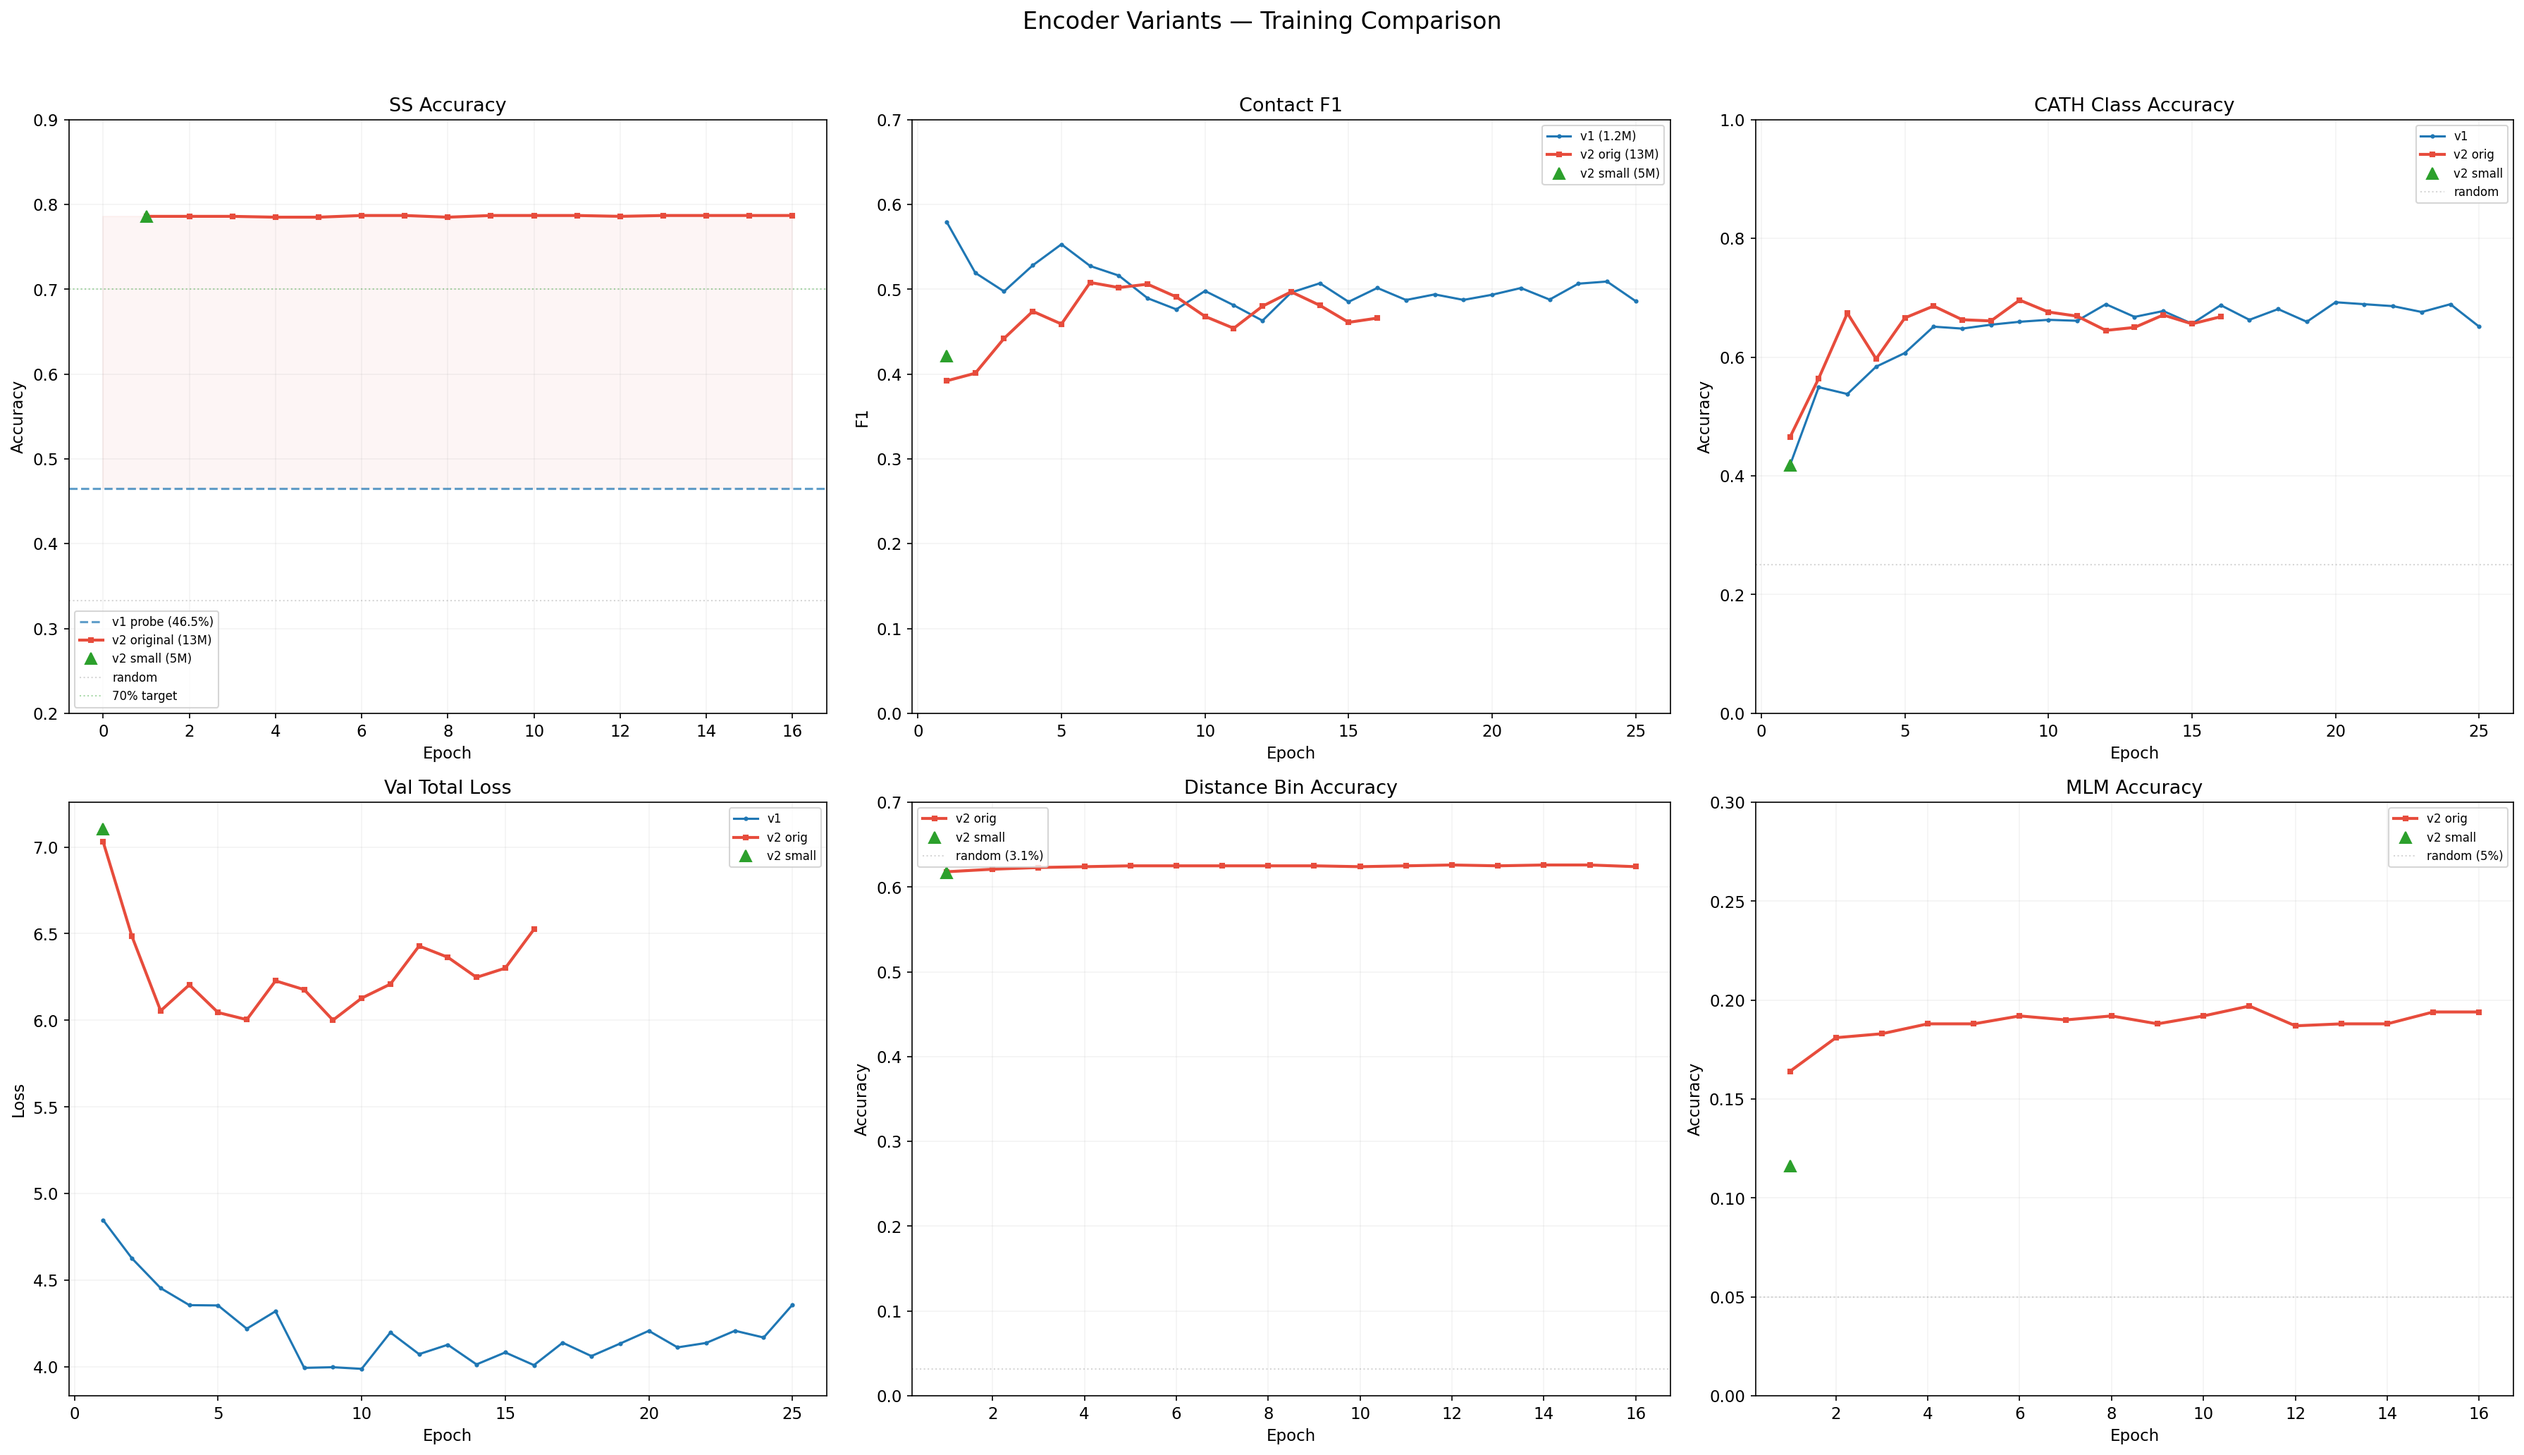
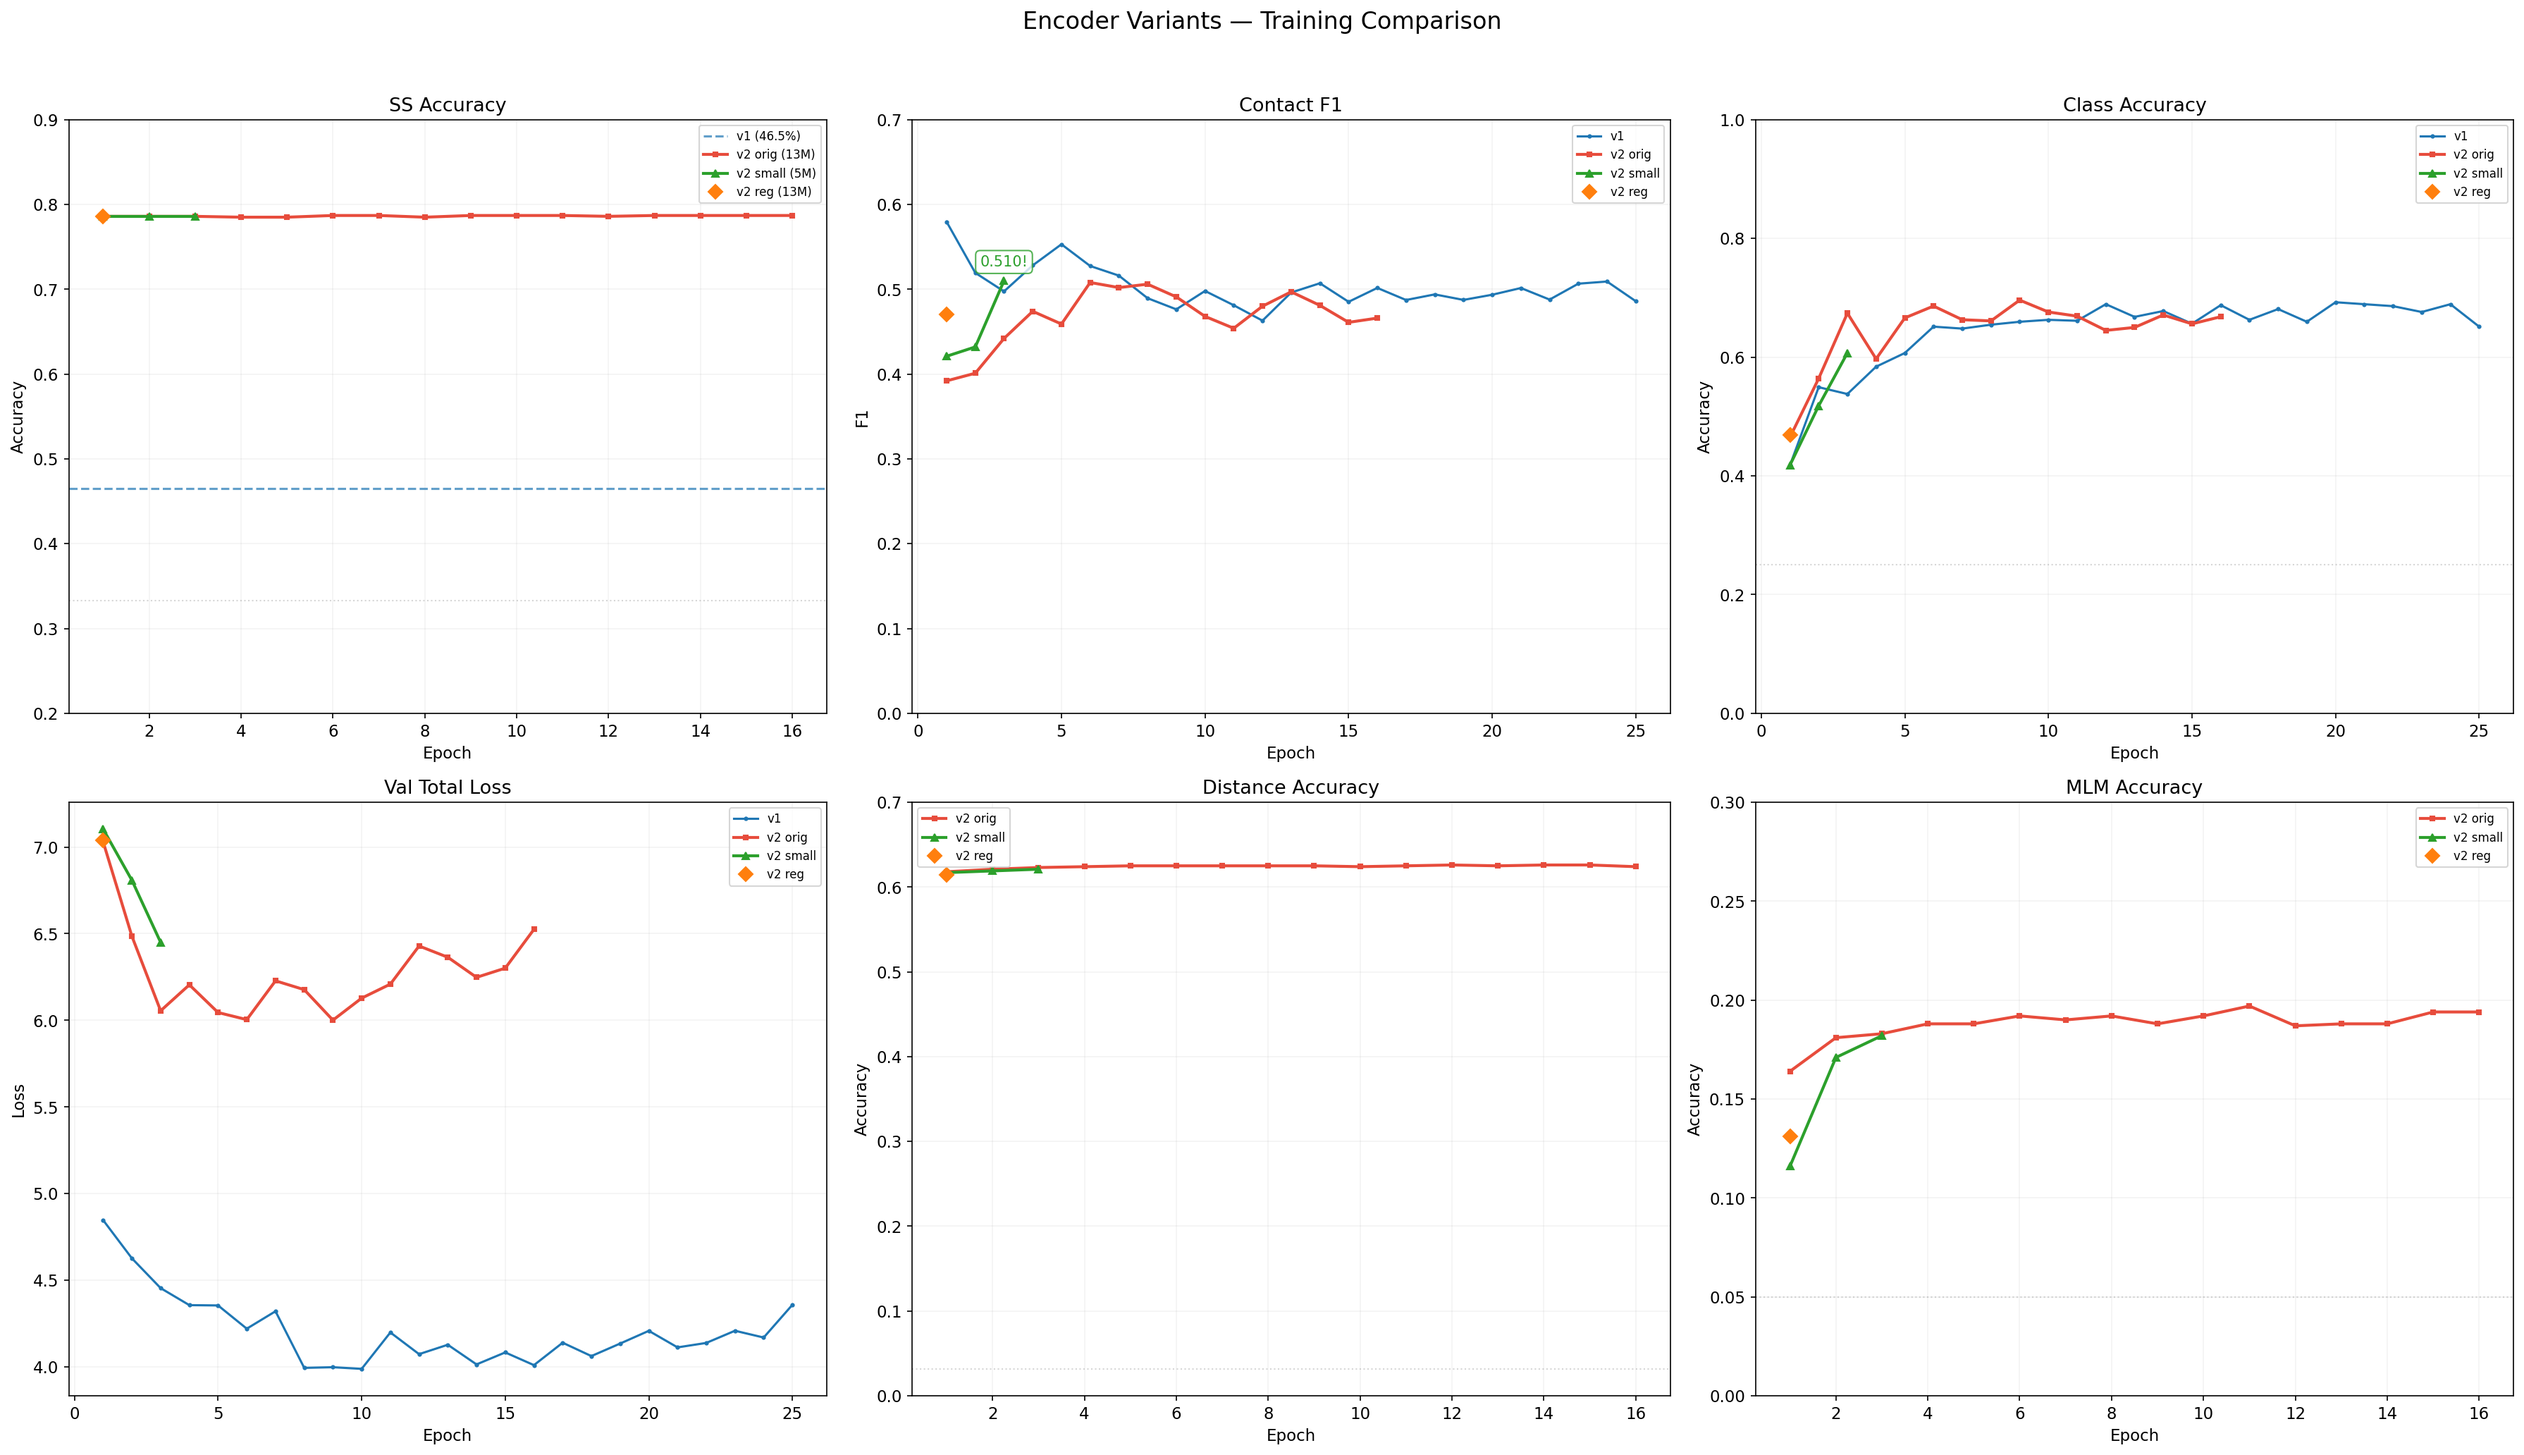
Update: small E3 (F1=0.510 — beat v2 original!), reg E1 (F1=0.470)
v2 small with 5M params matches or beats 13M v2 original on all metrics.
Contact F1 0.510 at E3 vs 0.508 best of original at E6.
Regularized (13M, drop=0.45) starts strong: F1=0.470 at E1.

diff --git a/minifold.html b/minifold.html
@@ -194,7 +194,7 @@
       Full architecture history, training tables, loss functions, and analysis for the protein backbone diffusion model.
     </p>
     <p id="last-updated" style="color: var(--text-secondary); font-size: 13px; margin-bottom: 16px; font-style: italic;">
-      Last updated: Mar 15, 2026 at 3:10 PM PST
+      Last updated: Mar 15, 2026 at 3:20 PM PST
     </p>
 
     <div class="mf-tabs">
